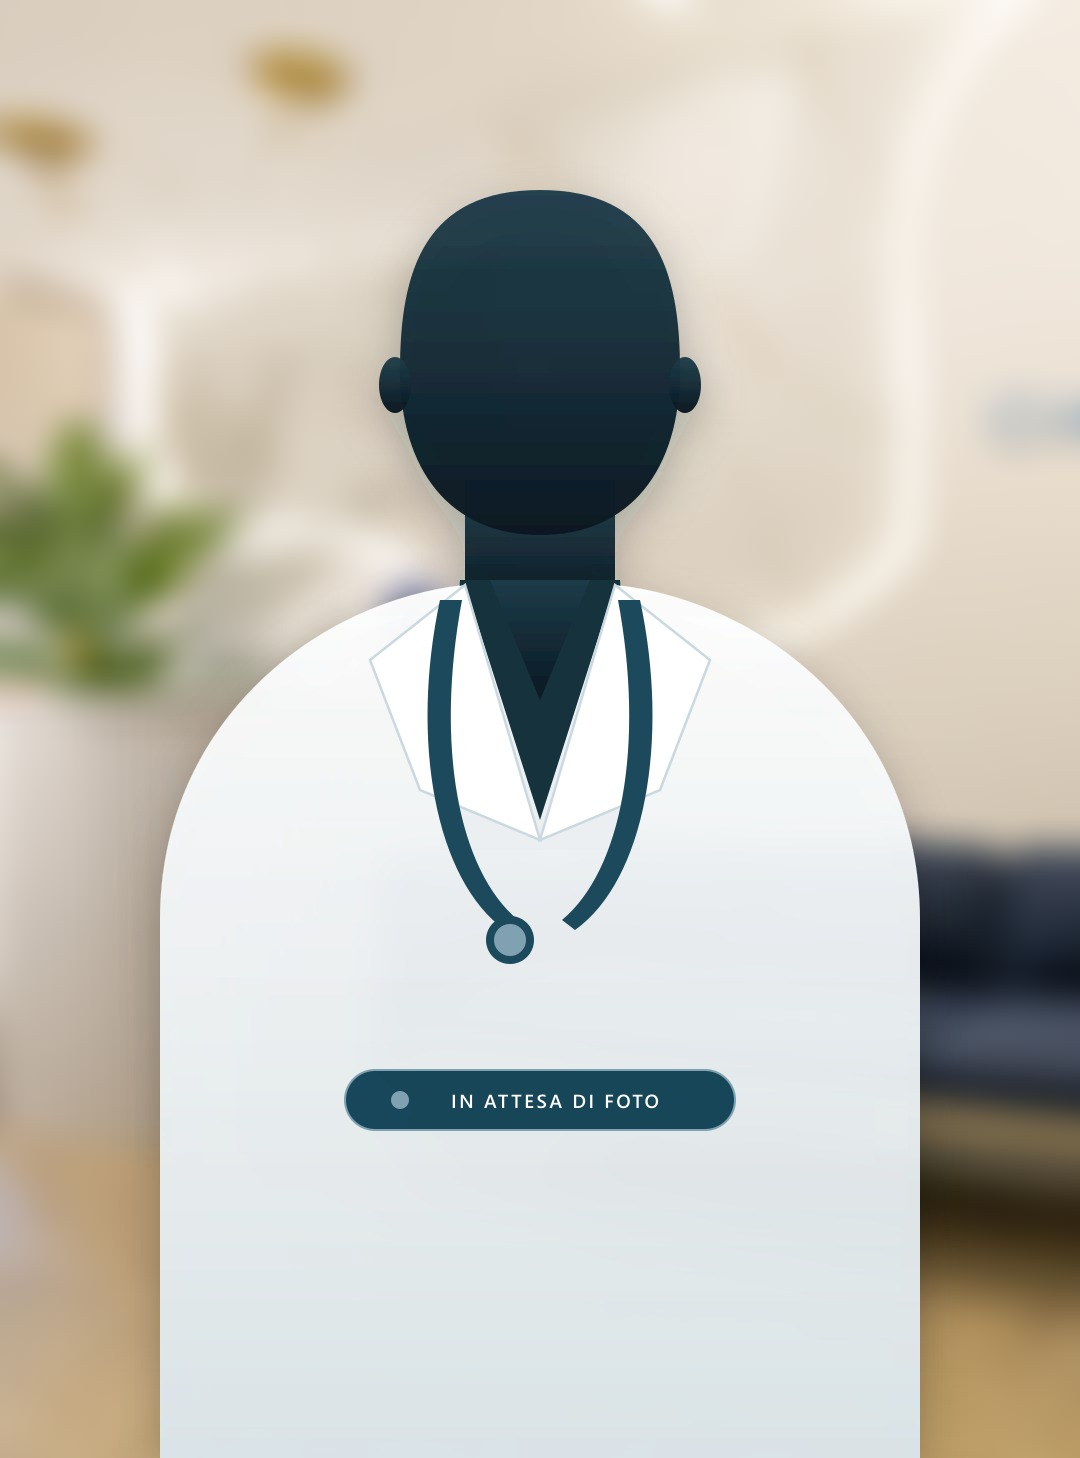
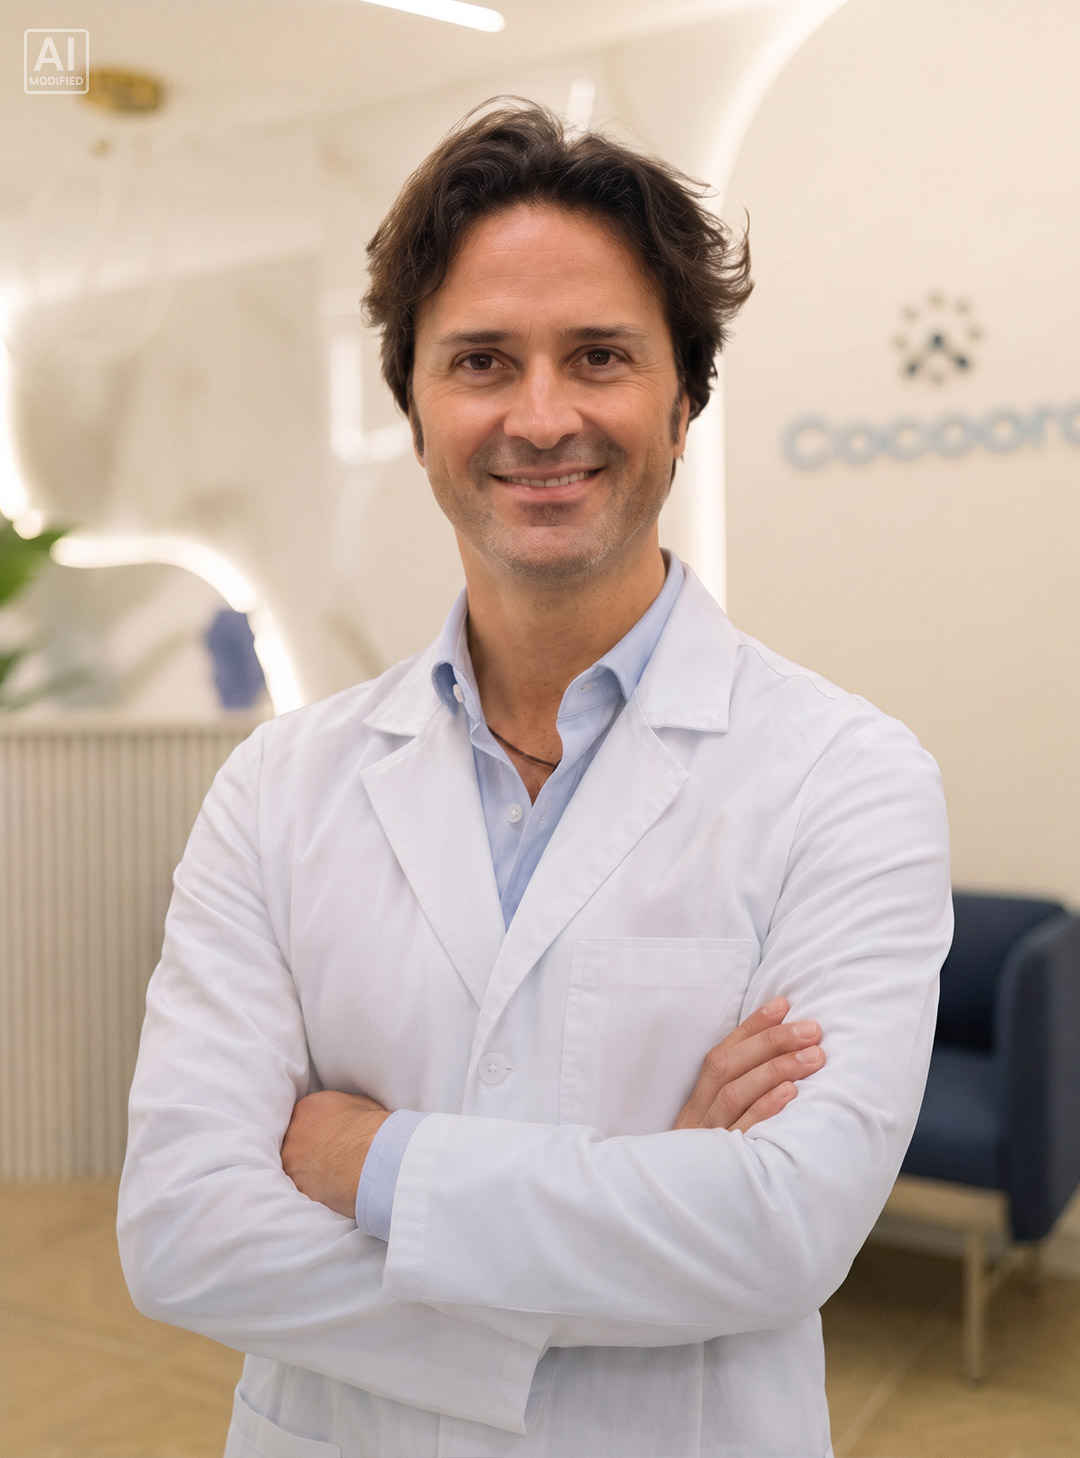
feat(doctors): add official portraits for Dr. Filippo Iaccarino and Patrizia Scorzelli

diff --git a/src/lib/doctors.ts b/src/lib/doctors.ts
@@ -7,7 +7,7 @@ import type { Doctor } from "./types";
 // ─────────────────────────────────────────────────────────────────────────
 
 export const DOCTORS: Doctor[] = [
-  // ── Specialisti con foto ritratto ufficiale (7) ────────────────────────
+  // ── Specialisti con foto ritratto ufficiale (9) ────────────────────────
   {
     slug: "elisa-russo",
     name: "Elisa Russo",
@@ -187,8 +187,56 @@ export const DOCTORS: Doctor[] = [
     clubTierIds: ["access", "care", "experience", "signature"],
     tariffaVisita: 0,
   },
+  {
+    slug: "patty-scorzelli",
+    name: "Patrizia Scorzelli",
+    title: "Operatrice Estetica",
+    branca: "Medicina Estetica Avanzata",
+    affiliation: "Operatrice Estetica",
+    image: "/images/doctors/patty-scorzelli.jpg",
+    bio: "Patrizia Scorzelli è operatrice estetica specializzata in trattamenti corpo, silhouette e tecnologie estetiche avanzate per il benessere dei tessuti.",
+    approach:
+      "Protocolli estetici personalizzati per la cura della persona, con approccio dedicato e massima attenzione al benessere dei tessuti.",
+    curriculum: [
+      "Operatrice Estetica qualificata",
+      "Specializzazione in trattamenti estetici corpo e tecnologie avanzate",
+      "Perfezionamento in protocolli silhouette e benessere cutaneo",
+    ],
+    servizi: [
+      "Trattamenti estetici corpo e silhouette",
+      "Protocolli di benessere cutaneo e rigenerazione",
+      "Assistenza e cura personalizzata della persona",
+    ],
+    specialtyId: "carbossiterapia",
+    clubTierIds: ["access", "care", "experience", "signature"],
+    tariffaVisita: 0,
+  },
+  {
+    slug: "filippo-iaccarino",
+    name: "Filippo Iaccarino",
+    title: "Medico Chirurgo Specialista in Pediatria e Neonatologia",
+    branca: "Pediatria & Cura della Crescita",
+    affiliation: "Medico Chirurgo Specialista in Pediatria e Neonatologia",
+    image: "/images/doctors/filippo-iaccarino.jpg",
+    bio: "Filippo Iaccarino accoglie le famiglie e i piccoli pazienti con disponibilità ed empatia, seguendo i bilanci di salute e le tappe fondamentali dello sviluppo pediatrico.",
+    approach:
+      "Ogni bambino merita un ambiente rilassante e rassicurante: la visita pediatrica deve essere un'esperienza positiva sia per il bambino sia per i genitori.",
+    curriculum: [
+      "Laurea in Medicina e Chirurgia",
+      "Specializzazione in Pediatria",
+      "Esperienza in bilanci di crescita e prevenzione infantile",
+    ],
+    servizi: [
+      "Visita pediatrica specialistica e bilanci di salute",
+      "Monitoraggio dell'accrescimento e sviluppo",
+      "Consulenza per l'alimentazione del bambino",
+    ],
+    specialtyId: "pediatria",
+    clubTierIds: ["access", "care", "experience", "signature"],
+    tariffaVisita: 0,
+  },
 
-  // ── Specialisti con avatar placeholder (10) ────────────────────────────
+  // ── Specialisti con avatar placeholder (8) ────────────────────────────
   {
     slug: "raffaele-dalessio",
     name: "Raffaele D'Alessio",
@@ -239,30 +287,6 @@ export const DOCTORS: Doctor[] = [
       "laser-ringiovanimento",
     ],
     specialtyId: "medicina-estetica",
-    clubTierIds: ["access", "care", "experience", "signature"],
-    tariffaVisita: 0,
-  },
-  {
-    slug: "patty-scorzelli",
-    name: "Patrizia Scorzelli",
-    title: "Operatrice Estetica",
-    branca: "Medicina Estetica Avanzata",
-    affiliation: "Operatrice Estetica",
-    image: "/images/doctors/patty-scorzelli.jpg",
-    bio: "Patrizia Scorzelli è operatrice estetica specializzata in trattamenti corpo, silhouette e tecnologie estetiche avanzate per il benessere dei tessuti.",
-    approach:
-      "Protocolli estetici personalizzati per la cura della persona, con approccio dedicato e massima attenzione al benessere dei tessuti.",
-    curriculum: [
-      "Operatrice Estetica qualificata",
-      "Specializzazione in trattamenti estetici corpo e tecnologie avanzate",
-      "Perfezionamento in protocolli silhouette e benessere cutaneo",
-    ],
-    servizi: [
-      "Trattamenti estetici corpo e silhouette",
-      "Protocolli di benessere cutaneo e rigenerazione",
-      "Assistenza e cura personalizzata della persona",
-    ],
-    specialtyId: "carbossiterapia",
     clubTierIds: ["access", "care", "experience", "signature"],
     tariffaVisita: 0,
   },
@@ -360,30 +384,6 @@ export const DOCTORS: Doctor[] = [
       "Consulenza per l'idoneità fisica e l'allenamento sicuro",
     ],
     specialtyId: "medicina-sport",
-    clubTierIds: ["access", "care", "experience", "signature"],
-    tariffaVisita: 0,
-  },
-  {
-    slug: "filippo-iaccarino",
-    name: "Filippo Iaccarino",
-    title: "Medico Chirurgo Specialista in Pediatria e Neonatologia",
-    branca: "Pediatria & Cura della Crescita",
-    affiliation: "Medico Chirurgo Specialista in Pediatria e Neonatologia",
-    image: "/images/doctors/filippo-iaccarino.jpg",
-    bio: "Filippo Iaccarino accoglie le famiglie e i piccoli pazienti con disponibilità ed empatia, seguendo i bilanci di salute e le tappe fondamentali dello sviluppo pediatrico.",
-    approach:
-      "Ogni bambino merita un ambiente rilassante e rassicurante: la visita pediatrica deve essere un'esperienza positiva sia per il bambino sia per i genitori.",
-    curriculum: [
-      "Laurea in Medicina e Chirurgia",
-      "Specializzazione in Pediatria",
-      "Esperienza in bilanci di crescita e prevenzione infantile",
-    ],
-    servizi: [
-      "Visita pediatrica specialistica e bilanci di salute",
-      "Monitoraggio dell'accrescimento e sviluppo",
-      "Consulenza per l'alimentazione del bambino",
-    ],
-    specialtyId: "pediatria",
     clubTierIds: ["access", "care", "experience", "signature"],
     tariffaVisita: 0,
   },
